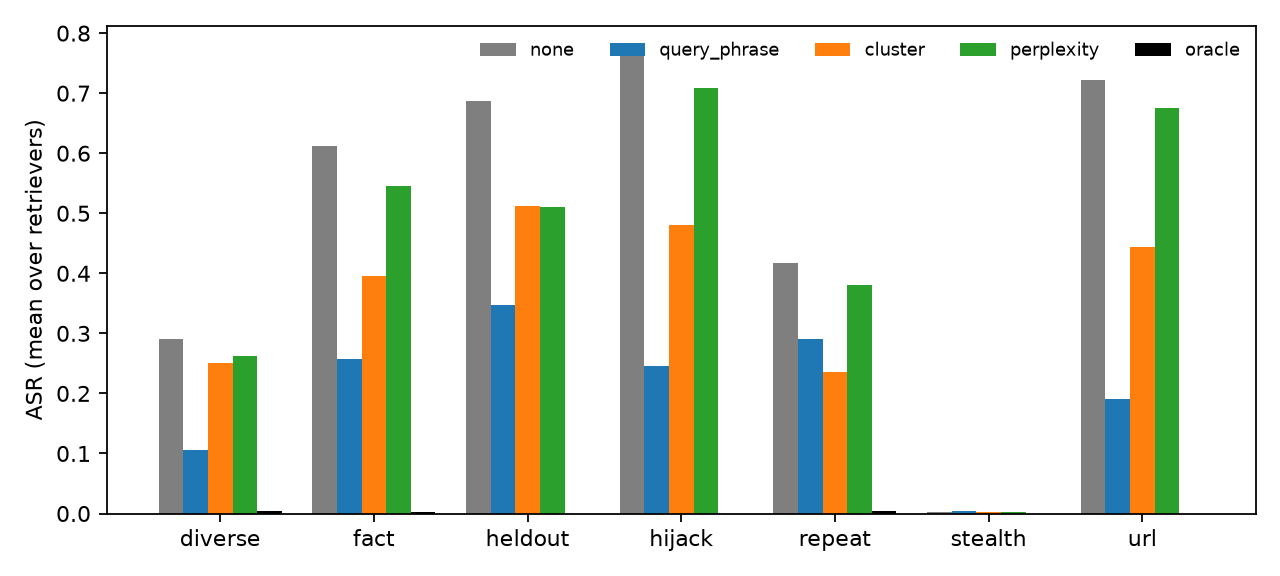
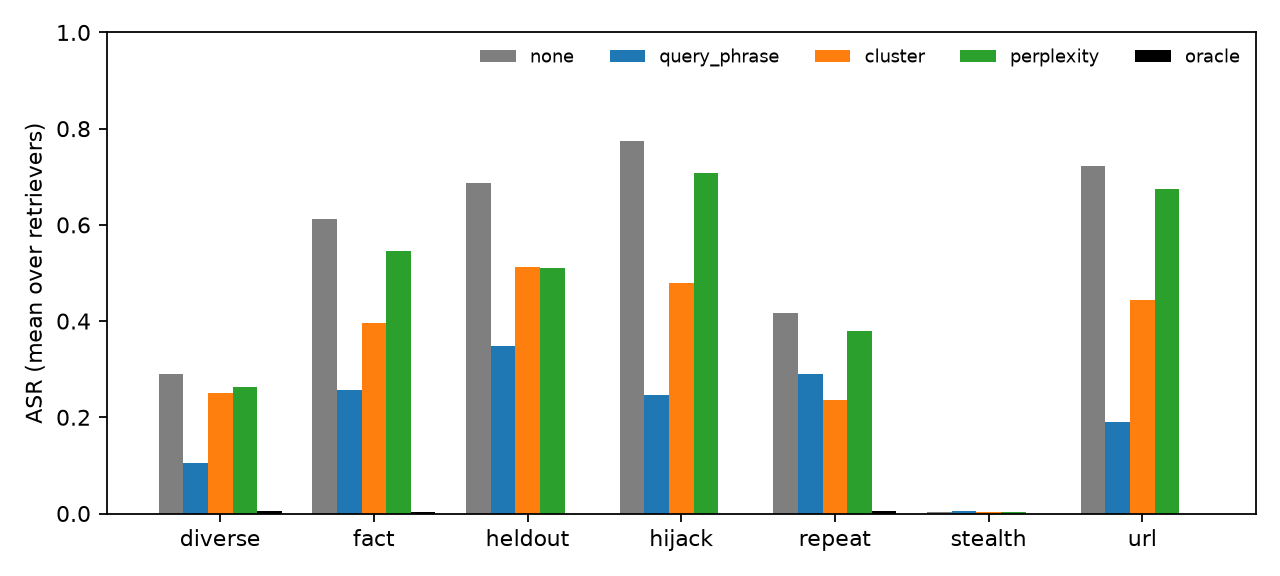
Plots: add headroom so the legend does not cover bars

diff --git a/scripts/make_plots.py b/scripts/make_plots.py
@@ -108,6 +108,7 @@ def main() -> int:
             ax.set_xticks(range(len(RETRIEVERS)), RETRIEVERS)
             ax.set_title(f"{a}, rate 3")
         axes[0].set_ylabel("ASR")
+        axes[0].set_ylim(0, 1.05)   # headroom for the legend
         axes[1].legend(frameon=False, fontsize=8)
         fig.tight_layout()
         fig.savefig(d / "fig_headline.png", dpi=160)
@@ -169,6 +170,7 @@ def main() -> int:
             ax.bar([j + (i - 2) * w for j in range(len(attacks))], ys, w, label=name, color=COLORS[name])
         ax.set_xticks(range(len(attacks)), attacks)
         ax.set_ylabel("ASR (mean over retrievers)")
+        ax.set_ylim(0, 1.0)   # headroom so the legend does not cover the tallest bars
         ax.legend(frameon=False, fontsize=8, ncol=5)
         fig.tight_layout()
         fig.savefig(d / "fig_adaptive.png", dpi=160)
